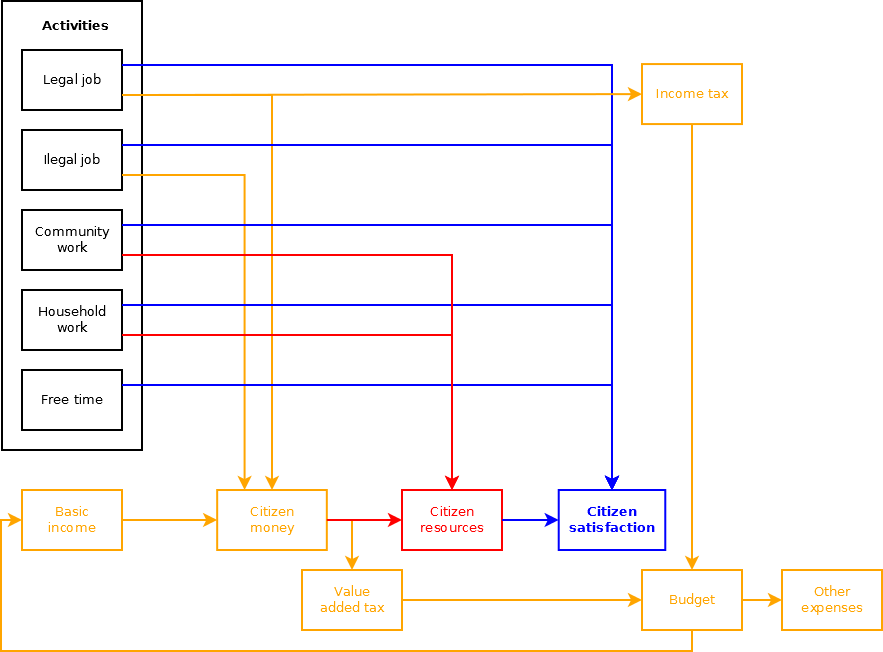
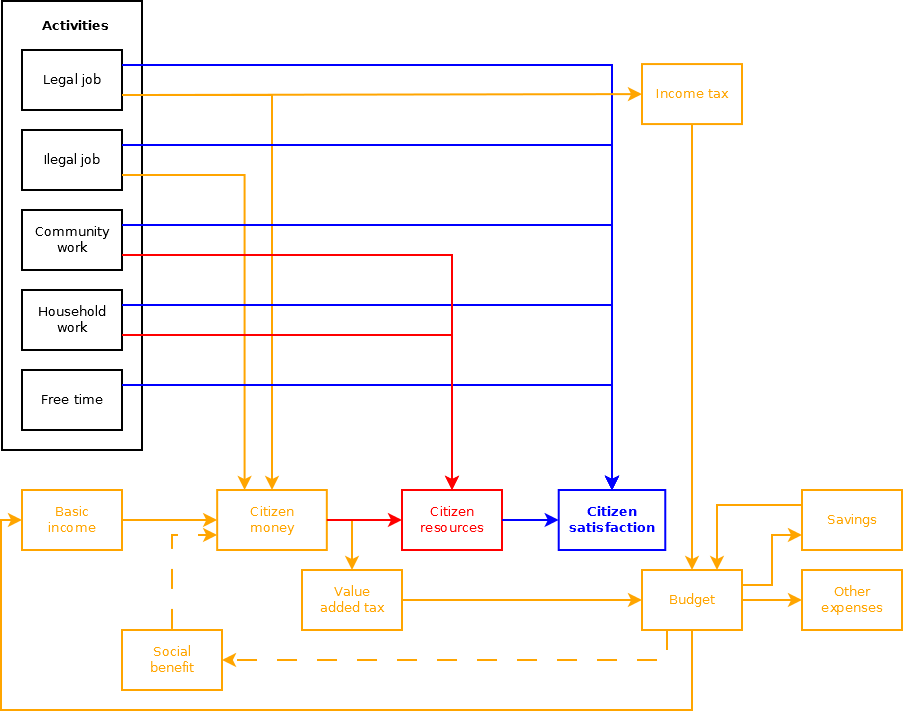
Help updated

diff --git a/web/help.html b/web/help.html
@@ -1,0 +1,174 @@
+<!DOCTYPE html>
+<html lang="en">
+<head>
+    <meta charset="UTF-8">
+    <title>How does game / simulation work</title>
+    <link rel="stylesheet" type="text/css" href="css/style.css"/>
+</head>
+<body>
+<div class="document">
+    <h1>How does this game / simulation work</h1>
+
+    <h2>Quick start</h2>
+
+    <p>Before plunging deeper into the arcane mechanics of simulation, you can use this app as a game. Your goal in this game is to introduce
+        basic income and replace social benefits with it as much as possible while keeping your citizens happy.</p>
+
+    <p>In more detail: The game consists of 20 turns. Each turn you are awarded score based on how successful you are in meeting the game goals. This score adds
+        up
+        each turn. Score for each turn is computed as:</p>
+
+    <p style="font-size: 90%">(<i>&lt;money handed out in base income&gt;</i> - <i>&lt;money handed out in social benefits&gt;</i> + <i>&lt;total population satisfaction&gt;</i>)
+        / <i>&lt;number of citizens&gt;</i></p>
+
+    <p>Note on <strong>social benefits</strong>: Citizens are generated in two variants, &quot;normal&quot; and &quot;dependent&quot;. Dependent citizens cannot
+        make money in a
+        job, but can work for community and at home (see below), although with greatly reduced efficiency. AND dependent citizens are entitled to social
+        benefit payment (everyone the same).</p>
+    <p>So while base income is distributed to each citizen, social benefits are distributed only to dependent citizens,
+        that is the difference. There is about 20% of dependent citizens in the population as of now.</p>
+
+    <p><strong>Important note</strong>: All hours, production and money are scaled to <span style="text-decoration: underline;">weekly</span> values. So when you see
+        "Legal
+        job avg hours", it is per week. When you set "Base income", it is per week. Et cetera!!!</p>
+
+    <h2>Simulation mechanics</h2>
+
+    <h3>Overview</h3>
+
+    <p>Generally speaking, each citizen divides its (fixed) amount of time between various activities in such a way that he is most happy (gains most
+        satisfaction). Sounds simple, doesn't it?</p>
+
+    <p>The workings of the simulation are shown on the following diagram that I will refer to during explanation:</p>
+
+    <img src="img/BasicIncomeFlow.png"/>
+
+    <h3>Currencies</h3>
+
+    <p>The simulation works with three kinds of "currencies":</p>
+
+    <ul>
+        <li><strong>Money:</strong> Just the money. Shown in orange in the diagram.</li>
+        <li><strong>Resources:</strong> Resources needed for living. Food, warmth, housing or more elaborate like art. Simulation currently does not
+            differentate
+            types of resources - everything is just "a resource". Shown in red in the diagram.
+        </li>
+        <li><strong>Satisfaction:</strong> Citizen's (un)happyness. Everyone wants to be happy! Shown in blue.</li>
+    </ul>
+
+    <h3>Activities</h3>
+
+    <p>Activities that citizen can take part in are:</p>
+
+    <ul>
+        <li><strong>Legal job:</strong> Citizens go to work, get money, some satisfaction (or dissatisfaction, if they don't like to work). Oh, and the money
+            they
+            make in legal job gets taxed by income tax!
+        </li>
+        <li><strong>Illegal job:</strong> Citizens work, but not "officially". So they get money for the work but the money are not taxed. Since it is illegal
+            and
+            they are afraid they will be caught, illegal work generates much more dissatisfaction than legal work.
+        </li>
+        <li><strong>Community work:</strong> Citizens do what they can for their neighbours and their neighbours do the same for them. Upside is that citizen
+            gets
+            directly resources (simulating neighbours returning the favor), so this kind of work is not taxed at all. Downside is that it is less effective and
+            effectivity drops quickly since community is limited. Also generates some (dis)satisfaction.
+        </li>
+        <li><strong>Household work:</strong> Citizens working on their own household. Cleaning, doing some repairs, cooking and so on. Completely tax-free, but
+            there is only limited amount of things you can do on your own, so effectivity drops quickly. Also generates some (dis)satisfaction.
+        </li>
+        <li><strong>Free time:</strong> Free, non-productive time. Generates just satisfaction.</li>
+    </ul>
+
+    <h3>Converting money and resources to satisfaction</h3>
+
+    <p>So by activities, citizens generated some amount of money, resources (and satisfaction). Now we need to convert money and resources to satisfaction:</p>
+
+    <ul>
+        <li>With money citizens buy resources. They need to pay Value Added Tax for the resources (*).</li>
+        <li>Each citizen has a "living standard" i.e., amount of resources he is used to. The amount of generated and bought resources is compared to this
+            "living
+            standard" and (dis)satisfaction is generated based on the difference. Also when amount of resources is low so that it does not cover basic needs
+            (food,
+            housing, ...), it generates additional dissatisfaction.
+        </li>
+    </ul>
+
+    <p>*) So when money are acquired from legal job, they are taxed with income tax and then again with VAT when used to buy resources. When money are acquired
+        from
+        illegal job, they are taxed with just VAT when used to buy resources.</p>
+
+    <h3>Budget</h3>
+
+    <p>You cannot go to the next step with negative budget. It is quite simple. The incomes are:</p>
+
+    <ul>
+        <li>Income tax</li>
+        <li>Value added tax</li>
+    </ul>
+
+    <p>Your expenses are:</p>
+
+    <ul>
+        <li>"Other" expenses for running the state, specified "per capita" by constant in the simulation.</li>
+        <li>Basic income</li>
+        <li>Social benefits (not all citizens gets social benefit - see Quickstart above)</li>
+    </ul>
+
+    <p>If you have surplus budget, extra money are saved and you can use them in the next turn(s).</p>
+
+    <h3>Running the simulation</h3>
+
+    <p><strong>Important note: All hours, production and money are scaled to <span style="text-decoration: underline;">weekly</span> values. So when you see
+        "Legal
+        job avg hours", it is per week. When you set "Base income", it is per week. Et cetera!!!</strong></p>
+
+    <p>When you start the simulation, following happens:</p>
+
+    <ol>
+        <li>Citizen population is randomly generated, each citizen has slightly different properties (effectivity at work, how much he/she likes work, etc.)
+        </li>
+        <li>Basic income is set to zero, taxes and social benefit are set to initial values.</li>
+        <li>Citizens find optimal allocation of their time to various activities so they get most satisfaction out of it.</li>
+    </ol>
+
+    <p>Now the simulation round begins</p>
+
+    <ol>
+        <li>You have a chance to change simulation parameters - basic income, social benefit and taxes. You see impacts on your budget as soon as you change the value.</li>
+        <li>When you are done, click the <i>Next step</i> button.</li>
+        <li>Citizens will find optimal allocation of their time for new conditions.</li>
+        <li>Next round begins.</li>
+    </ol>
+
+    <h3>TODO</h3>
+
+    <p>There are several enhancements that are currently on my mind:</p>
+
+    <ul>
+        <li><strong>Inflation:</strong> Citizens should be able to buy only as much resources as are generated by dependent and independent jobs.</li>
+        <li><strong>Different resources:</strong> It is, of course, not possible to simulate every type of resource. So I would go only with two types. "Type 1"
+            resource that is more effectively produced in job than in standalone work but is crucial for survival. For example, food. "Type 2" resource, that is
+            can be very effective to produce, even when working alone, but is not essential for living, for example, art.
+        </li>
+        <li><strong>Working habits:</strong> When citizens do not work, they gradually lose their working habits meaning they will get more dissatisfaction from
+            work when they consider working again. And vice versa, when they are working, they get used to it and get less dissatisfaction.
+        </li>
+        <li><strong>Aging: </strong> People get less effective, old people die, new citizens "appear" which do no have working habits (get more dissatisfaction
+            from
+            work - see above).
+        </li>
+    </ul>
+
+    <h3>Internals - density functions</h3>
+
+    <p>UI features "Designer" part where you can see different functions that are behind the simulation. Each function has a description so I will not cover
+        them
+        here. I just want to emphase, that except the last two ("Resources difference satisfaction" and "Resources absolute satisfaction") they are constructed
+        as a
+        density functions. So, for example, to determine how much satisfaction you get from working 40 hours a week, you need to sum all values from 1 to
+        40.</p>
+</div>
+
+</body>
+</html>

diff --git a/web/js/ui/Application.js b/web/js/ui/Application.js
@@ -50,9 +50,9 @@ var Application = React.createClass(
             return <div>
                 {cover}
                 <div className="menu">
-                    <a href="mechanics.html" target="_blank" className="rightLink">Explanation of simulation mechanics</a>
+                    <a href="help.html" target="_blank" className="rightLink">How does it work (help)</a>
                     <a href="https://github.com/lemmingucwcz/BasicIncome" target="_blank" className="rightLink">GitHub</a>
-                    <a href="#" className={this._getButtonClasses(this.NAVIGATION_GAME)} onClick={this.goToNavigation.bind(this, this.NAVIGATION_GAME)}>Simulation</a>
+                    <a href="#" className={this._getButtonClasses(this.NAVIGATION_GAME)} onClick={this.goToNavigation.bind(this, this.NAVIGATION_GAME)}>Sim/Game</a>
                     <a href="#" className={this._getButtonClasses(this.NAVIGATION_FUNCTION_DESIGNER)}
                        onClick={this.goToNavigation.bind(this, this.NAVIGATION_FUNCTION_DESIGNER)}>Designer</a>
                     <a href="#" className={this._getButtonClasses(this.NAVIGATION_CONFIGURATION)} onClick={this.goToNavigation.bind(this, this.NAVIGATION_CONFIGURATION)}>Configuration</a>

diff --git a/web/css/style.css b/web/css/style.css
@@ -143,6 +143,18 @@ a.hudElm:hover {
     padding-left: 10px;
 }
 
+.cover {
+    font-size: 500%;
+    color: white;
+    position: fixed;
+    top: 0;
+    right: 0;
+    bottom: 0;
+    left: 0;
+    text-align: center;
+    background: rgba(0, 0, 0, 0.5);
+}
+
 .document {
     max-width: 1200px;
 }
@@ -158,6 +170,12 @@ a.hudElm:hover {
     border-bottom: 1px solid white;
 }
 
+.document h3 {
+    padding: 0 40px;
+    margin: 40px 0 30px;
+    border-bottom: 1px solid white;
+}
+
 .document p {
     padding: 0 40px;
 }
@@ -169,16 +187,4 @@ a.hudElm:hover {
 .document img {
     border: 20px solid white;
     margin: 20px 40px;
-}
-
-.cover {
-    font-size: 500%;
-    color: white;
-    position: fixed;
-    top: 0;
-    right: 0;
-    bottom: 0;
-    left: 0;
-    text-align: center;
-    background: rgba(0, 0, 0, 0.5);
 }

diff --git a/web/js/ui/Game.js b/web/js/ui/Game.js
@@ -293,7 +293,7 @@ var Game = React.createClass(
                 statsContents =
                     <div>
                         <div className="hudElm">
-                            <div className="title">Step #</div>
+                            <div className="title">Turn #</div>
                             <div className="value">{this.state.stepNo}</div>
                         </div>
                         <div className="hudElm">
